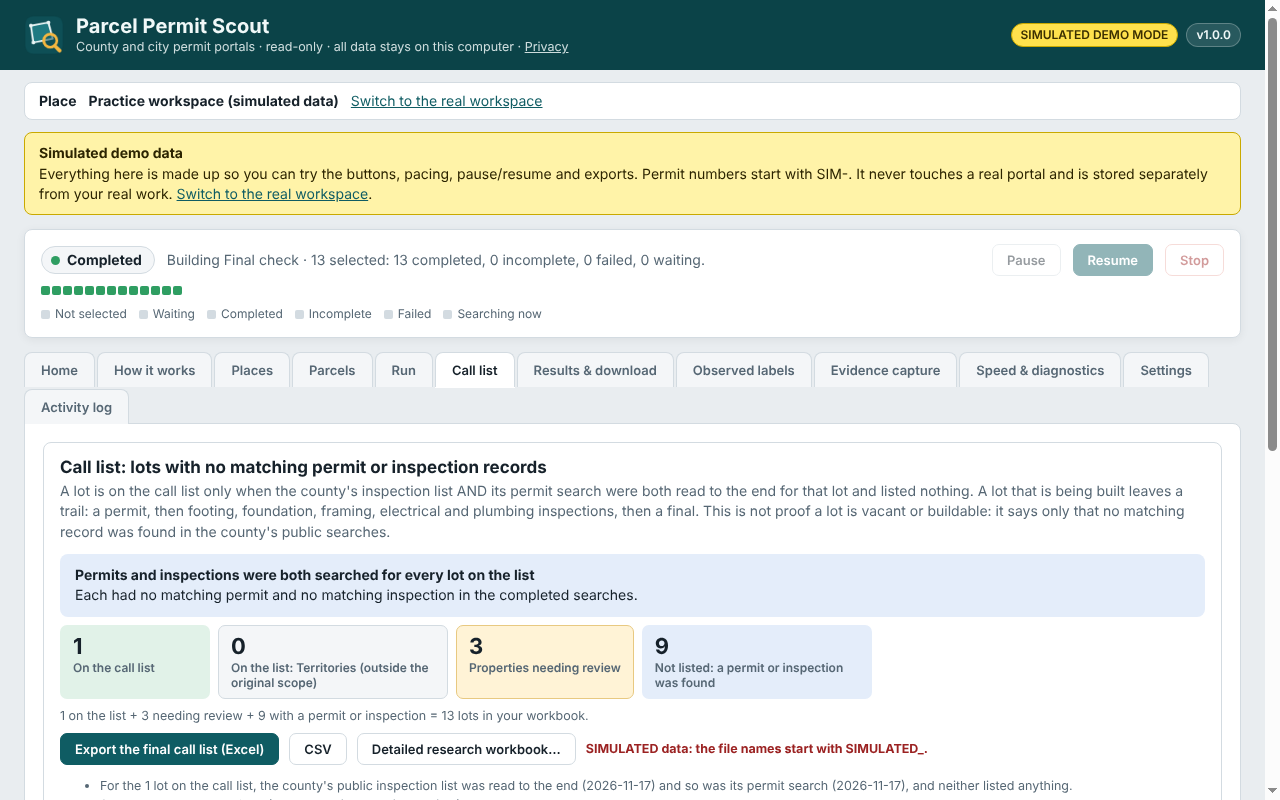
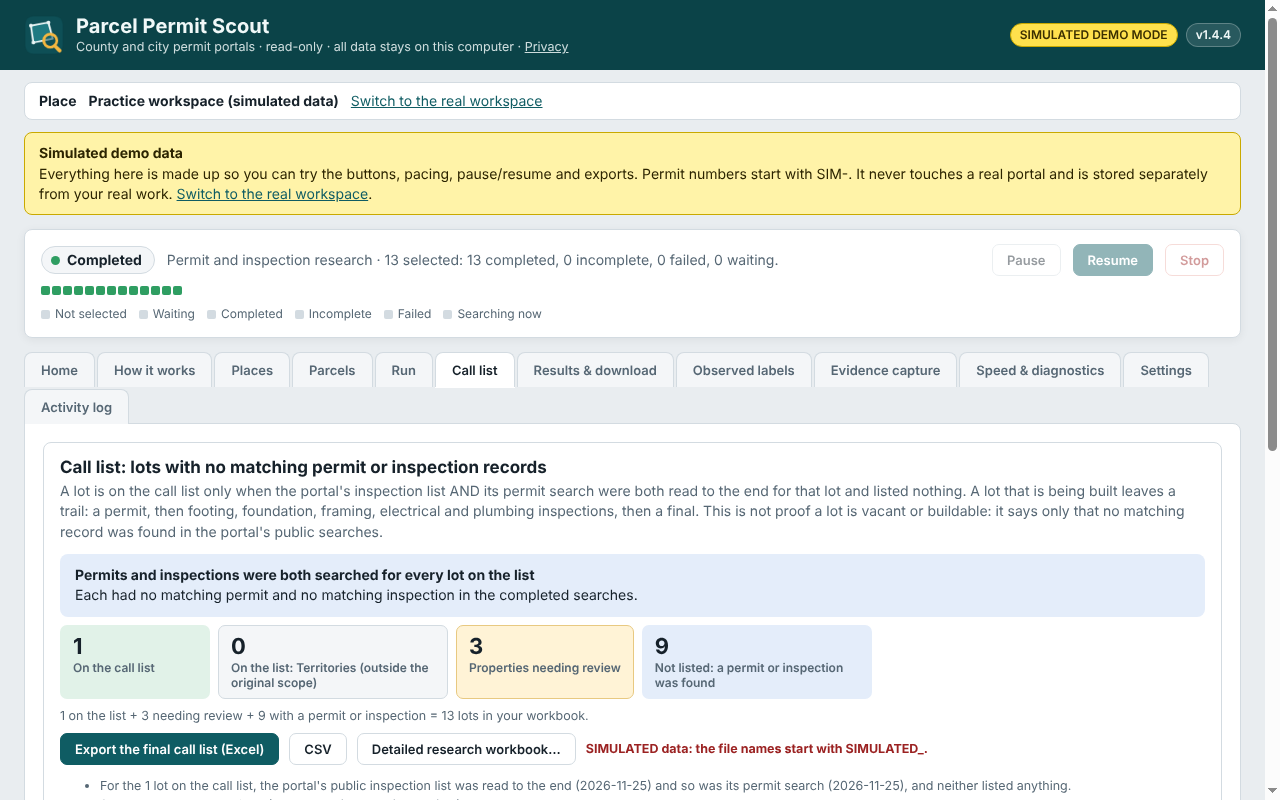
Website for 1.4.4: Try it on real lots, new screenshots, wording for every county and town

diff --git a/index.html b/index.html
@@ -4,7 +4,7 @@
 <meta charset="utf-8">
 <meta name="viewport" content="width=device-width, initial-scale=1">
 <title>Parcel Permit Scout: building permit and inspection checker for Chrome</title>
-<meta name="description" content="Parcel Permit Scout is a free, read-only Chrome extension that checks the building permits and inspections of every lot in your spreadsheet on county permit portals, and tells you which lots have nothing on record.">
+<meta name="description" content="Parcel Permit Scout is a free, read-only Chrome extension that checks the building permits and inspections of every lot in your spreadsheet on county and town permit portals, and tells you which lots have nothing on record.">
 <link rel="canonical" href="https://lisle2002.github.io/Parcel-Permit-Scout/">
 <link rel="icon" href="assets/favicon.png">
 <meta property="og:type" content="website">
@@ -14,7 +14,7 @@
 <meta property="og:image" content="https://lisle2002.github.io/Parcel-Permit-Scout/assets/3-lots.png">
 <meta name="twitter:card" content="summary_large_image">
 <script type="application/ld+json">
-{"@context":"https://schema.org","@type":"SoftwareApplication","name":"Parcel Permit Scout","applicationCategory":"BusinessApplication","operatingSystem":"Chrome","offers":{"@type":"Offer","price":"0","priceCurrency":"USD"},"description":"Read-only Chrome extension that checks the building permits and inspections of the lots in your spreadsheet on county permit portals.","url":"https://lisle2002.github.io/Parcel-Permit-Scout/","downloadUrl":"https://chromewebstore.google.com/detail/imjobmedkffhnebdkklgjccndaiacgoi"}
+{"@context":"https://schema.org","@type":"SoftwareApplication","name":"Parcel Permit Scout","applicationCategory":"BusinessApplication","operatingSystem":"Chrome","offers":{"@type":"Offer","price":"0","priceCurrency":"USD"},"description":"Read-only Chrome extension that checks the building permits and inspections of the lots in your spreadsheet on county and town permit portals.","softwareVersion":"1.4.4","url":"https://lisle2002.github.io/Parcel-Permit-Scout/","downloadUrl":"https://chromewebstore.google.com/detail/imjobmedkffhnebdkklgjccndaiacgoi"}
 </script>
 <style>
   :root { --bg: #f5f8f8; --card: #ffffff; --fg: #15262a; --muted: #55676b; --line: #dbe4e5; --brand: #0e4f56; --brand-fg: #eaf6f6; --gold: #f4b740; }
@@ -47,6 +47,11 @@
   th, td { text-align: left; padding: 8px 10px; border-bottom: 1px solid var(--line); }
   .tablewrap { overflow-x: auto; background: var(--card); border: 1px solid var(--line); border-radius: 12px; }
   .ok { font-weight: 650; }
+  .split { display: grid; grid-template-columns: minmax(0, 1fr) minmax(0, 1.1fr); gap: 24px; align-items: start; }
+  .split p:first-child { margin-top: 0; }
+  .split ul { padding-left: 1.2em; }
+  .note { color: var(--muted); font-size: 0.92rem; margin: 10px 0 0; }
+  @media (max-width: 760px) { .split { grid-template-columns: 1fr; } }
   footer { border-top: 1px solid var(--line); padding-block: 22px 36px; color: var(--muted); font-size: 0.92rem; }
   footer a { margin-right: 16px; }
   @media (max-width: 560px) { .hero { grid-template-columns: 1fr; padding-block: 32px; } .hero img { width: 84px; height: 84px; } }
@@ -58,10 +63,10 @@
     <img src="assets/icon.svg" alt="Parcel Permit Scout icon: a surveyed lot under a magnifying glass" width="112" height="112">
     <div>
       <h1>Parcel Permit Scout</h1>
-      <p class="lead">A free Chrome extension that checks the building permits and inspections of every lot in your spreadsheet on the county's permit website, and tells you which lots have nothing on record.</p>
+      <p class="lead">A free Chrome extension that checks the building permits and inspections of every lot in your spreadsheet on the permit website of its county or town, and tells you which lots have nothing on record.</p>
       <div class="cta">
         <a class="btn main" href="https://chromewebstore.google.com/detail/imjobmedkffhnebdkklgjccndaiacgoi">Add to Chrome, free</a>
-        <a class="btn ghost" href="https://github.com/Lisle2002/Parcel-Permit-Scout/issues/new/choose">Report a problem or request a county</a>
+        <a class="btn ghost" href="https://github.com/Lisle2002/Parcel-Permit-Scout/issues/new/choose">Report a problem or request your county or town</a>
       </div>
     </div>
   </div>
@@ -79,17 +84,34 @@
 
   <section>
     <h2>Made for</h2>
-    <p>Builders, developers, land buyers and agents who would otherwise search a county permit site one parcel at a time.</p>
+    <p>Builders, developers, land buyers and agents who would otherwise search a permit website one parcel at a time.</p>
+  </section>
+
+  <section id="try-it">
+    <h2>Try it on real lots first</h2>
+    <div class="split">
+      <div>
+        <p>Before you load your own spreadsheet, press <b>Try it on real lots</b> on the extension's Home page. It reads six real sample lots on a real county permit portal in your own browser, the same way it reads your lots, and gives you the two files it makes:</p>
+        <ul>
+          <li><b>The call list</b>: the lots with no permit and no inspection on record, ready to work through, with the reason every other lot is not on it.</li>
+          <li><b>The research workbook</b>: every permit, inspection and search behind each answer.</li>
+        </ul>
+        <p>The sample lots are public land and one vacant commercial lot, so no one's home is involved. They are kept apart from your own lots and results.</p>
+      </div>
+      <figure><img src="assets/6-try-it.png" alt="The Home page with the Try it on real lots button" loading="lazy" width="1280" height="800"><figcaption>Try it on real lots, on the Home page</figcaption></figure>
+    </div>
   </section>
 
   <section>
     <h2>See it</h2>
     <div class="shots">
-      <figure><img src="assets/3-lots.png" alt="The call list of lots with no permit or inspection on record" loading="lazy" width="1280" height="800"><figcaption>The call list</figcaption></figure>
-      <figure><img src="assets/1-home.png" alt="The extension's home page after a practice run" loading="lazy" width="1280" height="800"><figcaption>After a run</figcaption></figure>
-      <figure><img src="assets/2-what-your-workbook-needs.png" alt="What a workbook needs, with an example" loading="lazy" width="1280" height="800"><figcaption>What your spreadsheet needs</figcaption></figure>
-      <figure><img src="assets/5-places.png" alt="Places and which portals are supported" loading="lazy" width="1280" height="800"><figcaption>Places and support</figcaption></figure>
+      <figure><img src="assets/3-lots.png" alt="The call list of lots with no permit or inspection on record (practice data)" loading="lazy" width="1280" height="800"><figcaption>The call list</figcaption></figure>
+      <figure><img src="assets/1-home.png" alt="The extension's Home page after a practice run" loading="lazy" width="1280" height="800"><figcaption>After a run</figcaption></figure>
+      <figure><img src="assets/4-results.png" alt="Downloading the results workbook" loading="lazy" width="1280" height="800"><figcaption>The downloads</figcaption></figure>
+      <figure><img src="assets/2-what-your-workbook-needs.png" alt="What a spreadsheet needs, with an example" loading="lazy" width="1280" height="800"><figcaption>What your spreadsheet needs</figcaption></figure>
+      <figure><img src="assets/5-places.png" alt="What the tool can do and which portals are supported" loading="lazy" width="1280" height="800"><figcaption>Places and support</figcaption></figure>
     </div>
+    <p class="note">These pictures use the extension's practice workspace: made-up lots, marked SIMULATED.</p>
   </section>
 
   <section>
@@ -105,15 +127,15 @@
         <tr><td>OpenGov (checked on the Town of Vail, CO)</td><td class="ok">Read this page, permits only: you search each lot and open its page, and the tool reads that page. It never searches these sites and never answers a "verify you are human" check.</td></tr>
       </tbody>
     </table></div>
-    <p>"Supported" means the reader was run live on that very portal; every place still runs a short pilot in your browser before a batch. A new county on the same software is "Experimental" until its own pilot passes. "Permits only" means that website shows the public no inspections. Want your county? <a href="https://github.com/Lisle2002/Parcel-Permit-Scout/issues/new?template=county_request.yml">Request it here</a>.</p>
+    <p>"Supported" means the reader was run live on that very portal; every place still runs a short pilot in your browser before a batch. A new county or town on the same software is "Experimental" until its own pilot passes. "Permits only" means that website shows the public no inspections. Want your county or town? <a href="https://github.com/Lisle2002/Parcel-Permit-Scout/issues/new?template=county_request.yml">Request it here</a>.</p>
   </section>
 
   <section>
     <h2>Read-only and private</h2>
     <div class="grid3">
-      <div class="card"><h3>Only reads</h3><p>It searches and reads. A guard refuses anything that would apply, submit, pay or change something on a county site.</p></div>
+      <div class="card"><h3>Only reads</h3><p>It searches and reads. A guard refuses anything that would apply, submit, pay or change something on a permit website.</p></div>
       <div class="card"><h3>Stays on your computer</h3><p>Your spreadsheet and every result stay in your browser. No account, no tracking, nothing uploaded. <a href="privacy.html">Privacy policy</a>.</p></div>
-      <div class="card"><h3>Your own sign-in</h3><p>It works in your own browser tab. If a county site needs you to sign in, you sign in yourself; it never sees your password.</p></div>
+      <div class="card"><h3>Your own sign-in</h3><p>It works in your own browser tab. If a permit website needs you to sign in, you sign in yourself; it never sees your password.</p></div>
     </div>
   </section>
 
@@ -121,9 +143,14 @@
     <h2>Get started</h2>
     <ol class="steps">
       <li><a href="https://chromewebstore.google.com/detail/imjobmedkffhnebdkklgjccndaiacgoi">Add Parcel Permit Scout to Chrome</a> and open it from its toolbar icon.</li>
-      <li>Try the practice workspace first: it uses made-up data and never touches a real site.</li>
-      <li>Load your spreadsheet, open the county's permit site in a tab, and start with a short pilot run.</li>
+      <li>Press <b>Try it on real lots</b> on its Home page to see a real run and the two files it makes. There is also a practice workspace with made-up data that never touches a real site.</li>
+      <li>Load your spreadsheet, open the permit website of your county or town in a tab, and start with a short pilot run.</li>
     </ol>
+  </section>
+
+  <section>
+    <h2>What's new</h2>
+    <p><b>Version 1.4.4</b> (25 November 2026): <b>Try it on real lots</b> reads six real sample lots and gives you both files before you use your own; an empty call list says why in the file; the wording fits every portal, county or town; and a check on the Town of Vail's live website confirmed how an address with no records is read.</p>
   </section>
 
   <section>

diff --git a/README.md b/README.md
@@ -1,10 +1,10 @@
 # Parcel Permit Scout
 
-A free, read-only Chrome extension that checks the building permits and inspections of every lot in your spreadsheet on county permit websites, and tells you which lots have nothing on record.
+A free, read-only Chrome extension that checks the building permits and inspections of every lot in your spreadsheet on county and town permit websites, and tells you which lots have nothing on record. Press "Try it on real lots" in the extension to see a real run and the two files it makes before you use your own lots.
 
 - **Install:** [Chrome Web Store](https://chromewebstore.google.com/detail/imjobmedkffhnebdkklgjccndaiacgoi)
 - **Website:** https://lisle2002.github.io/Parcel-Permit-Scout/
-- **Report a problem or request a county:** [Issues](https://github.com/Lisle2002/Parcel-Permit-Scout/issues/new/choose)
+- **Report a problem or request your county or town:** [Issues](https://github.com/Lisle2002/Parcel-Permit-Scout/issues/new/choose)
 - **Privacy policy:** https://lisle2002.github.io/Parcel-Permit-Scout/privacy.html
 
 This repository holds the website and the issue tracker. The extension itself is distributed through the Chrome Web Store.
